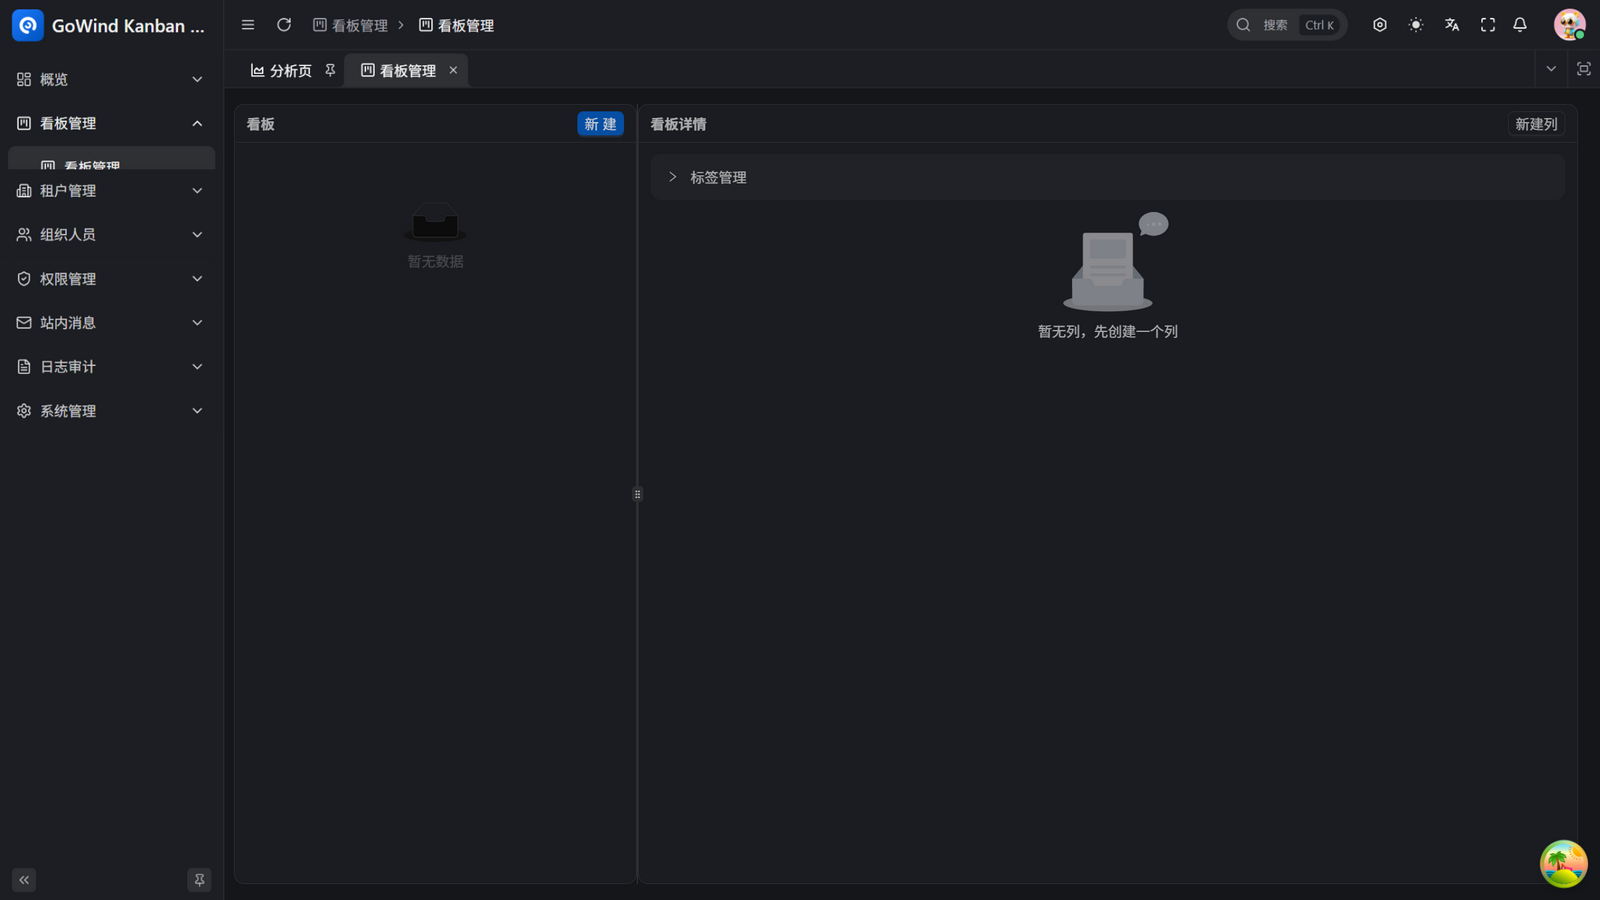
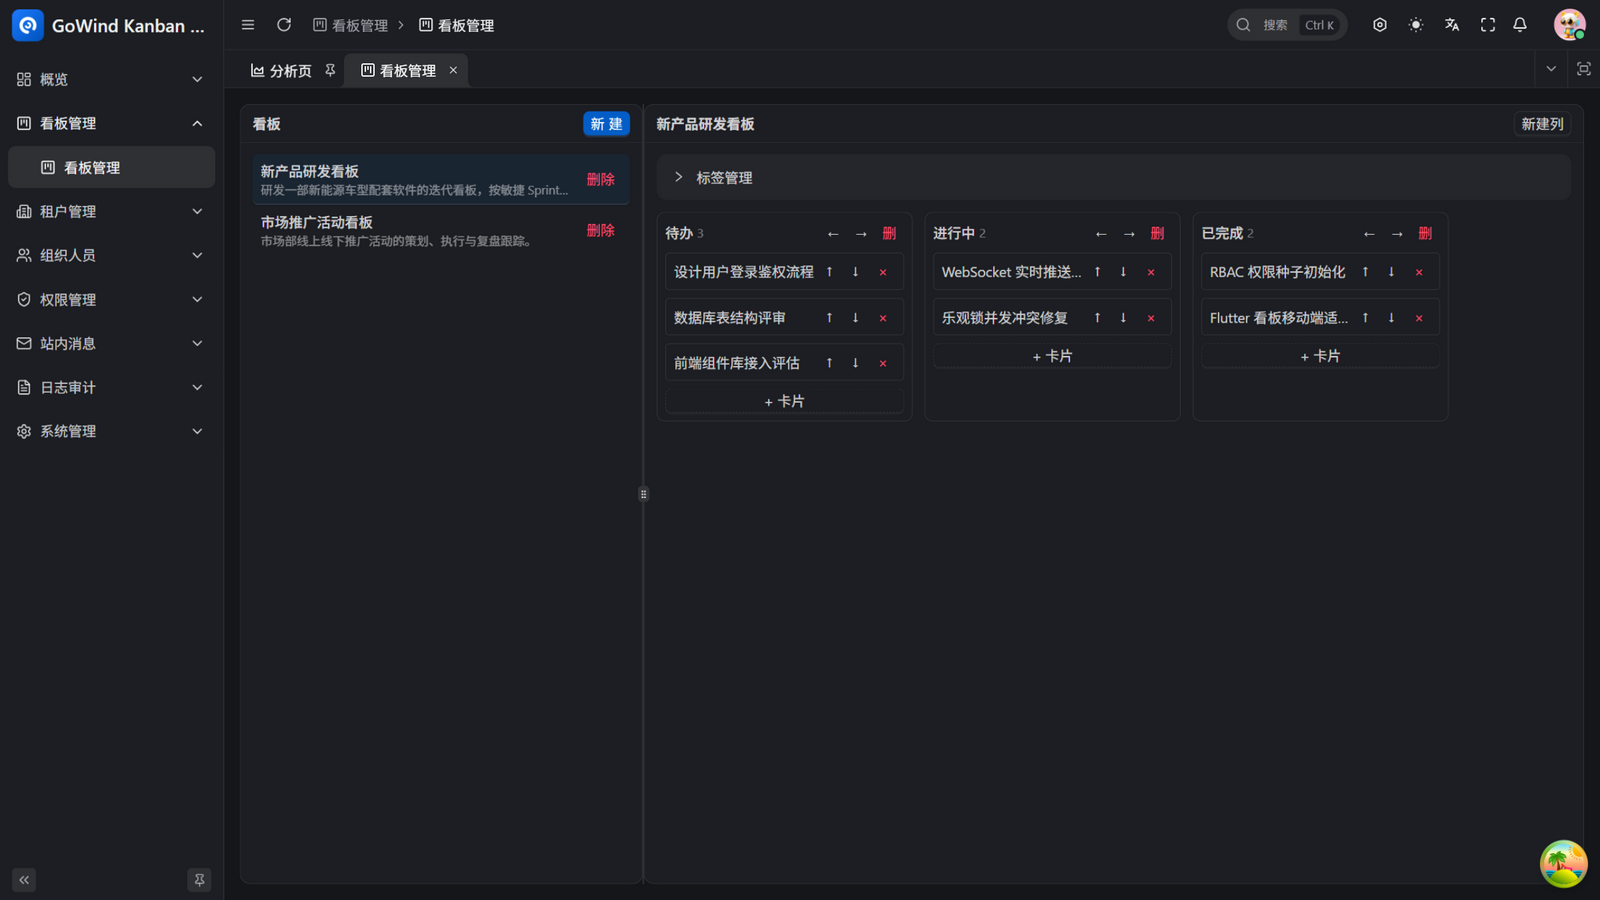
docs: 补拍登录页截图，看板管理页重截（有数据版）
- login.png：重拍登录页（此前误截 vite 报错遮罩）
- kanban.png：用平台 admin 账号重截——租户种子直接 SQL 插入跳过角色克隆
  导致 tenant_admin 无角色路由 404；admin 有 platform_admin 权限可见全部看板
  （2 板 / 待办 3 / 进行中 2 / 已完成 2，含列管理与卡片编排操作）
- README 三语截图区块扩为 4 张：登录页 / 看板管理 / App 列表 / App 看板视图

diff --git a/README.en-US.md b/README.en-US.md
@@ -30,10 +30,11 @@
 
 | | |
 |:---:|:---:|
-| ![Login](docs/screenshots/login.png) | ![Boards](docs/screenshots/kanban.png) |
-| *Login* | *Board management (boards / lists / tags)* |
+| ![Login](docs/screenshots/login.png) | ![Board management](docs/screenshots/kanban.png) |
+| *Login* | *Board management (boards / lists / cards)* |
 | ![App board list](docs/screenshots/app-boards.png) | ![App board view](docs/screenshots/app-kanban.png) |
 | *App board list (Flutter)* | *App board view (todo / in progress / done)* |
+
 
 
 ## Tech Stack

diff --git a/README.ja-JP.md b/README.ja-JP.md
@@ -31,9 +31,10 @@
 | | |
 |:---:|:---:|
 | ![ログイン](docs/screenshots/login.png) | ![ボード管理](docs/screenshots/kanban.png) |
-| *ログイン* | *ボード管理（ボード / リスト / タグ）* |
+| *ログイン* | *ボード管理（ボード / リスト / カード）* |
 | ![App ボード一覧](docs/screenshots/app-boards.png) | ![App ボード表示](docs/screenshots/app-kanban.png) |
 | *App ボード一覧（Flutter）* | *App ボード表示（未着手/進行中/完了）* |
+
 
 
 ## 技術スタック

diff --git a/README.md b/README.md
@@ -31,9 +31,10 @@
 | | |
 |:---:|:---:|
 | ![登录页](docs/screenshots/login.png) | ![看板管理](docs/screenshots/kanban.png) |
-| *登录页* | *看板管理（看板 / 列 / 标签）* |
+| *登录页* | *看板管理（看板/列/卡片编排）* |
 | ![App 看板列表](docs/screenshots/app-boards.png) | ![App 看板视图](docs/screenshots/app-kanban.png) |
 | *App 看板列表（Flutter）* | *App 看板视图（待办/进行中/已完成）* |
+
 
 
 ## 技术栈
